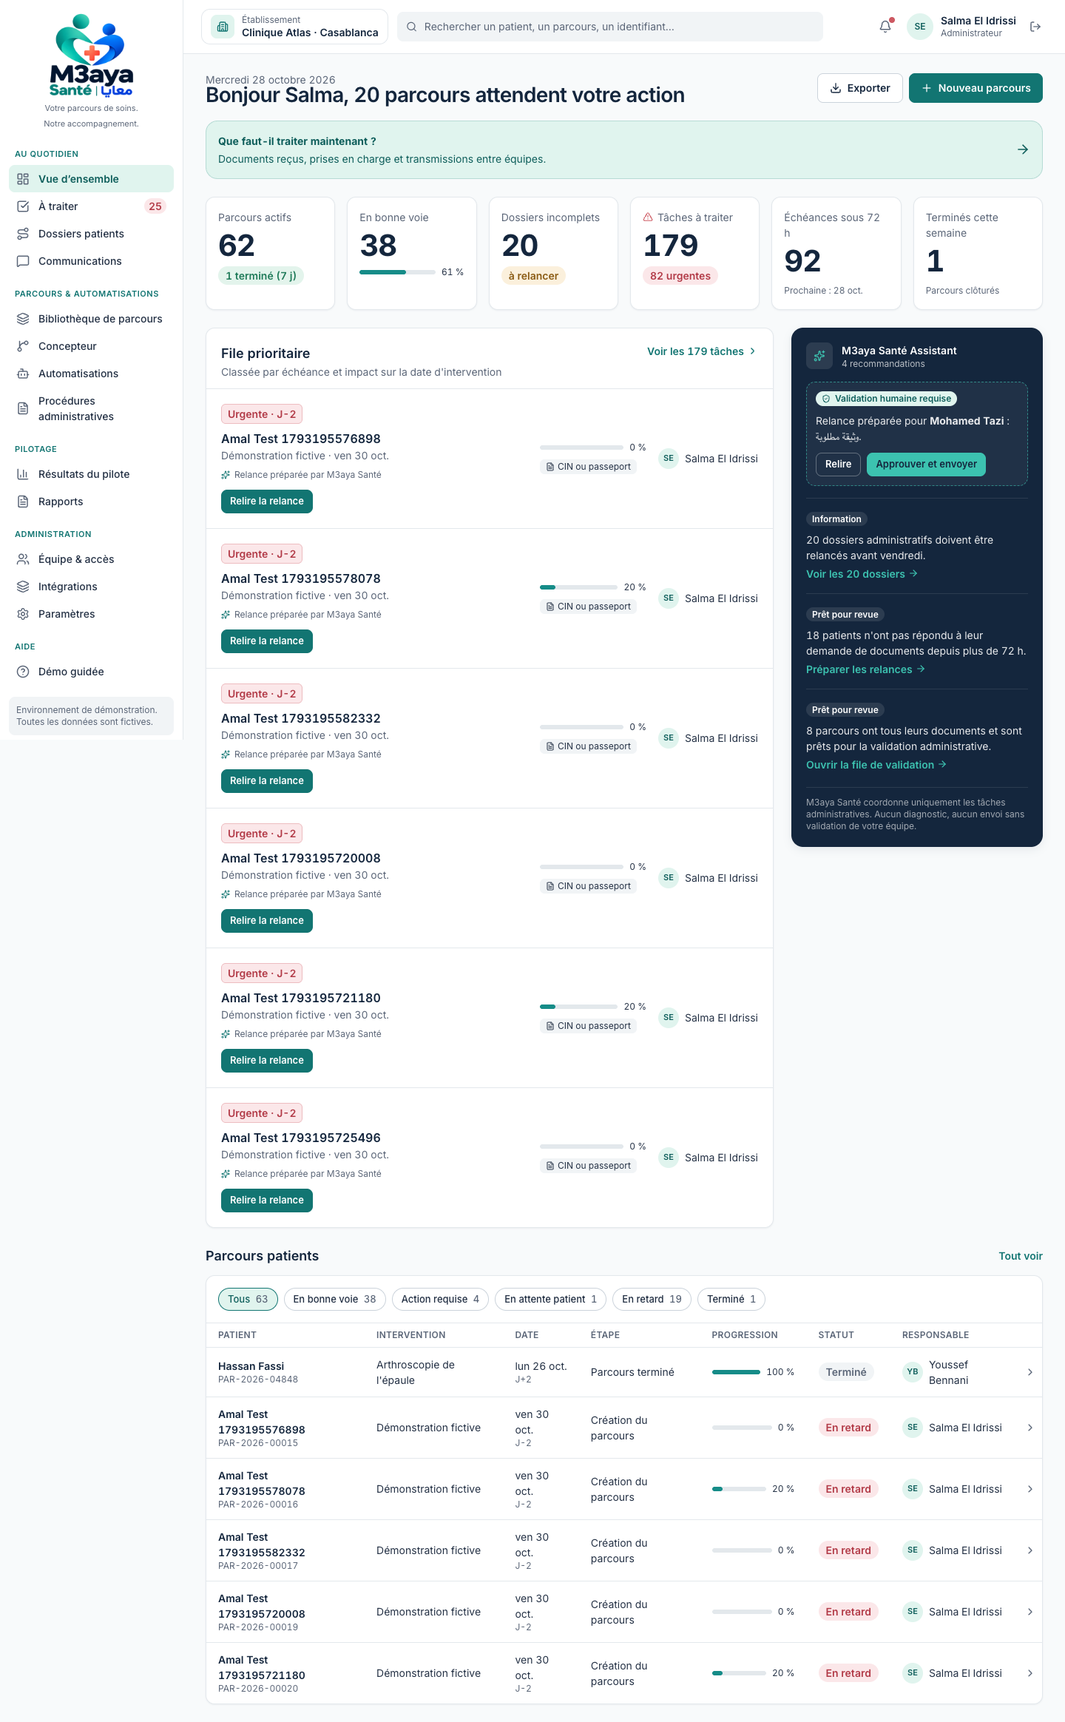
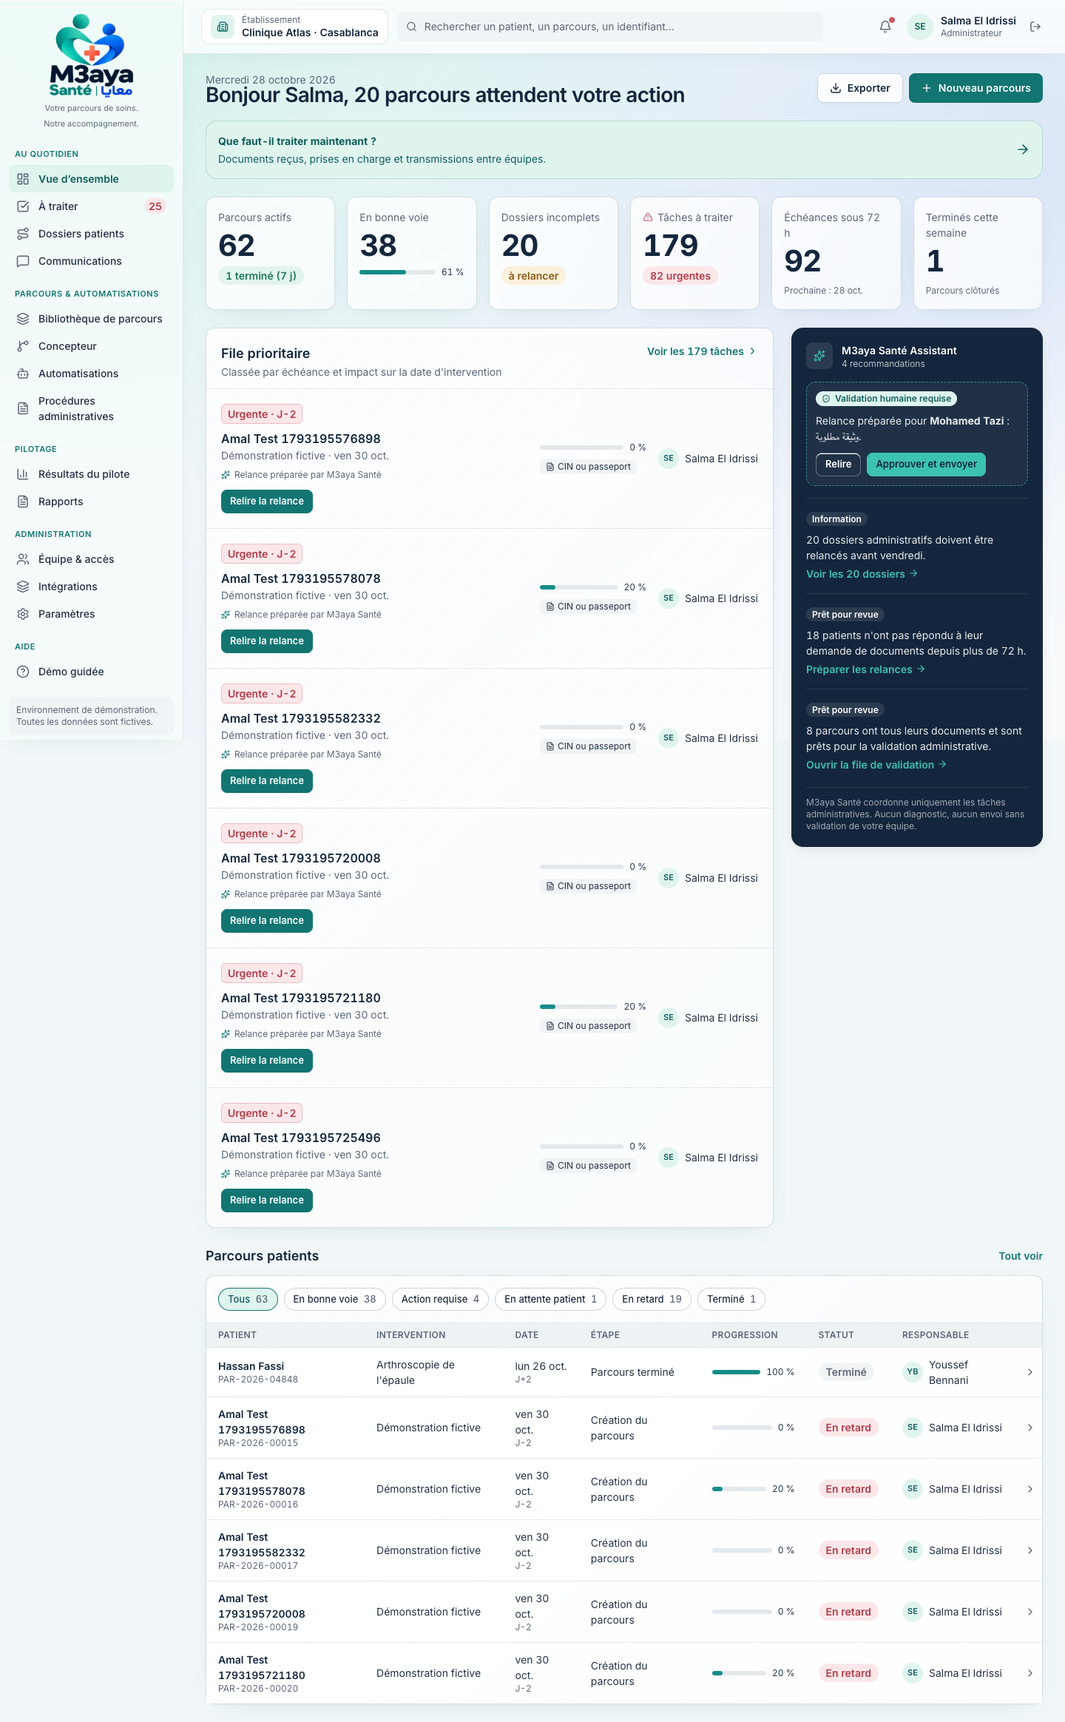
Add accessible frosted glass materials across the workspace and patient portal

Changed region(s): [[0.75, 0.0309, 1.0, 0.1856], [0.1562, 0.0309, 0.5625, 0.1546]]

diff --git a/apps/web/src/pages/Portal.tsx b/apps/web/src/pages/Portal.tsx
@@ -50,7 +50,7 @@ export default function PortalPage() {
   if (!data) return <div className="space-y-3 p-4"><Skeleton className="h-16" /><Skeleton className="h-40" /><Skeleton className="h-64" /></div>;
 
   const header = (
-    <header className="flex items-center gap-3 border-b border-line bg-white px-4 py-3">
+    <header className="flex items-center gap-3 glass-toolbar border-b border-line px-4 py-3">
       <Logo size={32} /><div className="flex-1 leading-tight"><p className="font-semibold text-navy-900">{data.establishment}</p><p className="text-meta text-ink-2">M3aya Santé</p></div>
       <button className="rounded-ctl border border-line-strong px-2.5 py-1 text-sm font-medium" onClick={() => setLang(lang === "fr" ? "ar" : "fr")}>{lang === "fr" ? "العربية" : "Français"}</button>
       <button aria-label={t("logout")} title={t("logout")} onClick={() => logout()}><Avatar name={displayName() || data.first_name} className="h-9 w-9" /></button>
@@ -66,11 +66,11 @@ export default function PortalPage() {
       [t("consent.rights"), t("consent.rights.v", { contact: n.rights_contact || "—" })], [t("consent.cndp"), n.cndp_ref || t("consent.cndp.none")],
     ];
     return (
-      <div className="mx-auto min-h-screen max-w-[430px] bg-page text-patient">{header}
+      <div className="mx-auto min-h-screen max-w-[430px] glass-portal text-patient">{header}
         <main className="space-y-4 px-4 py-5">
           <h1 className="flex items-center gap-2 text-[22px] font-semibold"><ShieldCheck className="text-teal-700" />{t("consent.title")}</h1>
           <p className="text-ink-2">{t("consent.intro")}</p>
-          <dl className="divide-y divide-line rounded-panel border border-line bg-white">
+          <dl className="divide-y divide-line glass-card rounded-panel">
             {rows.map(([k, v]) => <div key={k} className="p-4"><dt className="text-meta font-semibold uppercase tracking-wide text-teal-800">{k}</dt><dd className="mt-1">{v}</dd></div>)}
           </dl>
           <Button size="patient" disabled={consent.isPending} onClick={() => consent.mutate(true)}>{t("consent.accept")}</Button>
@@ -87,7 +87,7 @@ export default function PortalPage() {
 
   const Tasks = () => (
     <section aria-label={t("tasks.title")}><h2 className="mb-2 text-lg font-semibold">{t("tasks.title")}</h2>
-      <ul className="overflow-hidden rounded-panel border border-line bg-white">
+      <ul className="overflow-hidden glass-card rounded-panel">
         {j?.tasks.map((x) => (
           <li key={x.id} className="flex items-center gap-3 border-b border-line p-4 last:border-0">
             <span className={cn("flex h-7 w-7 shrink-0 items-center justify-center rounded-full", x.status === "done" ? "bg-success-bg text-success-text" : "bg-surface-2 text-ink-2")}>{x.status === "done" ? <Check size={15} /> : <ClipboardList size={15} />}</span>
@@ -100,7 +100,7 @@ export default function PortalPage() {
   );
 
   return (
-    <div className="mx-auto flex min-h-screen max-w-[430px] flex-col bg-page">
+    <div className="mx-auto flex min-h-screen max-w-[430px] flex-col glass-portal">
       {header}
       <LiveUpdates />
       {preview&&<DocumentPreview file={preview.file} lang={lang} onCancel={()=>setPreview(null)} onConfirm={file=>{upload.mutate({id:preview.id,file});setPreview(null)}}/>}
@@ -120,9 +120,9 @@ export default function PortalPage() {
               ) : (
                 <Button size="patient" className="mt-4 bg-signal text-navy-900 hover:bg-mint-300" disabled={submit.isPending} onClick={() => submit.mutate(todo.id)}>{t("todo.done")}</Button>)}
             </section>) : (
-            <section className="rounded-panel border border-line bg-white p-5"><p className="font-semibold text-navy-900">{t("alldone.title")}</p><p className="text-ink-2">{t("alldone.text")}</p></section>))}
+            <section className="glass-card rounded-panel p-5"><p className="font-semibold text-navy-900">{t("alldone.title")}</p><p className="text-ink-2">{t("alldone.text")}</p></section>))}
           {(tab === "home" || tab === "journey") && (
-            <section className="rounded-panel border border-line bg-white p-5" aria-label={t("prep.title")}>
+            <section className="glass-card rounded-panel p-5" aria-label={t("prep.title")}>
               <div className="flex items-baseline justify-between"><h2 className="font-semibold text-navy-900">{t("prep.title")}</h2><span className="tabular-nums text-ink-2">{t("prep.steps", { done: j.progress.done, total: j.progress.total })}</span></div>
               <Progress value={j.progress.total ? (100 * j.progress.done) / j.progress.total : 0} className="mt-3 h-2" />
               <p className="mt-3 text-ink-2">{t("prep.surgery", { date: long(j.surgery_date, lang), time: j.admission_time })}</p>
@@ -134,19 +134,19 @@ export default function PortalPage() {
             <section aria-label={t("dates.title")}><h2 className="mb-2 text-lg font-semibold">{t("dates.title")}</h2>
               {[[-1, t("dates.practical")], [0, t("dates.admission", { time: j.admission_time })]].map(([off, text]) => {
                 const d = new Date(j.surgery_date + "T12:00:00"); d.setDate(d.getDate() + (off as number));
-                return (<div key={String(off)} className="mb-2 flex gap-3 rounded-panel border border-line bg-white p-3">
+                return (<div key={String(off)} className="mb-2 flex gap-3 glass-card rounded-panel p-3">
                   <div className="w-12 shrink-0 rounded-ctl bg-mint-100 py-1 text-center text-teal-800"><p className="text-[10px] font-semibold uppercase">{d.toLocaleDateString(locale(lang), { month: "short" })}</p><p className="text-lg font-bold tabular-nums">{d.getDate()}</p></div>
                   <p className="flex-1 self-center">{text as string}</p></div>);
               })}</section>)}
           {tab === "messages" && !delegated && <PatientAssistant arabic={lang === "ar"} />}
           {tab === "messages" && (
             <section aria-label={t("messages.title")}><h2 className="mb-2 text-lg font-semibold">{t("messages.title")}</h2>
-              {j.messages.length === 0 ? <p className="rounded-panel border border-line bg-white p-4 text-ink-2">{t("messages.none")}</p> :
-                j.messages.map((m, i) => <div key={i} className="mb-2 rounded-panel border border-line bg-white p-4"><p className="font-semibold text-navy-900">{m.subject}</p><p className="mt-1 whitespace-pre-wrap">{m.body}</p></div>)}</section>)}
+              {j.messages.length === 0 ? <p className="glass-card rounded-panel p-4 text-ink-2">{t("messages.none")}</p> :
+                j.messages.map((m, i) => <div key={i} className="mb-2 glass-card rounded-panel p-4"><p className="font-semibold text-navy-900">{m.subject}</p><p className="mt-1 whitespace-pre-wrap">{m.body}</p></div>)}</section>)}
           {tab === "rights" && (
             <section aria-label={t("rights.title")} className="space-y-3"><h2 className="text-lg font-semibold">{t("rights.title")}</h2>
               <Button size="patient" variant="secondary" onClick={() => download("/portal/my-data", "mes-donnees.json").catch(fail)}>{t("rights.export")}</Button>
-              <div className="space-y-2 rounded-panel border border-line bg-white p-4">
+              <div className="space-y-2 glass-card rounded-panel p-4">
                 <div className="grid gap-2">{(["rectification", "opposition", "deletion"] as const).map((k) => (
                   <label key={k} className={cn("flex items-center gap-2 rounded-ctl border p-3", kind === k ? "border-teal-700 bg-mint-100" : "border-line-strong")}>
                     <input type="radio" name="kind" checked={kind === k} onChange={() => setKind(k)} />{t(`rights.${k}` as const)}</label>))}</div>
@@ -156,7 +156,7 @@ export default function PortalPage() {
               <p className="text-meta text-ink-2">{data.notice.cndp_ref ? `CNDP : ${data.notice.cndp_ref}` : t("consent.cndp.none")} · {data.notice.rights_contact}</p>
             </section>)}
           {tab === "home" && (
-            <section className="rounded-panel border border-line bg-white p-5"><h2 className="font-semibold text-navy-900">{t("help.title")}</h2>
+            <section className="glass-card rounded-panel p-5"><h2 className="font-semibold text-navy-900">{t("help.title")}</h2>
               <p className="mt-1 text-ink-2">{t("help.hours")}</p>
               <div className="mt-3 grid grid-cols-2 gap-2"><Button variant="secondary" size="sm" disabled={!data.contacts?.phone} onClick={() => { if(data.contacts?.phone)location.href="tel:"+data.contacts.phone; }}><Phone size={14} />{t("help.call")}</Button>
                 <Button variant="secondary" size="sm" onClick={() => {setTab("messages");setTimeout(()=>{const help=document.getElementById("portal-help");help?.setAttribute("open","");help?.scrollIntoView({block:"center"});},0)}}><Mail size={14} />{t("help.write")}</Button></div></section>)}

diff --git a/apps/web/src/index.css b/apps/web/src/index.css
@@ -11,3 +11,88 @@
   [dir="rtl"] body, [dir="rtl"] { font-family: "Noto Sans Arabic Variable", "Inter Variable", system-ui, sans-serif; }
   :focus-visible { outline: none; box-shadow: 0 0 0 2px #fff, 0 0 0 4px #168C88; border-radius: 8px; }
 }
+
+/* M3aya frosted materials: opaque fallbacks work without backdrop-filter. */
+@layer components {
+  .glass-app, .glass-portal {
+    background-color: #f1f7f8;
+    background-image:
+      radial-gradient(ellipse at 8% 0%, rgba(123, 220, 200, .28), transparent 48%),
+      radial-gradient(ellipse at 96% 22%, rgba(130, 172, 236, .20), transparent 46%),
+      linear-gradient(145deg, #f3faf8, #f0f4fa 62%, #f8fafb);
+    background-attachment: fixed;
+  }
+  .glass-card {
+    border: 1px solid rgba(174, 197, 204, .54);
+    background: #fbfdfd;
+    box-shadow: inset 0 1px 0 rgba(255,255,255,.95), 0 8px 28px -16px rgba(28, 67, 89, .22);
+  }
+  .glass-toolbar, .glass-sidebar, .glass-sheet {
+    background: #f9fcfc;
+    border-color: rgba(174, 197, 204, .50);
+    box-shadow: inset 0 1px 0 rgba(255,255,255,.94), 0 8px 28px -20px rgba(28,67,89,.24);
+  }
+  .glass-control {
+    background: rgba(255,255,255,.88);
+    box-shadow: inset 0 1px 0 #fff, 0 2px 5px rgba(28,67,89,.04);
+  }
+  @supports ((backdrop-filter: blur(1px)) or (-webkit-backdrop-filter: blur(1px))) {
+    .glass-card {
+      background: linear-gradient(135deg, rgba(255,255,255,.85), rgba(255,255,255,.66));
+      -webkit-backdrop-filter: blur(14px) saturate(125%);
+      backdrop-filter: blur(14px) saturate(125%);
+    }
+    .glass-sidebar {
+      background: rgba(246,252,251,.82);
+      -webkit-backdrop-filter: blur(24px) saturate(135%);
+      backdrop-filter: blur(24px) saturate(135%);
+    }
+    .glass-toolbar, .glass-sheet {
+      background: rgba(250,253,253,.87);
+      -webkit-backdrop-filter: blur(22px) saturate(135%);
+      backdrop-filter: blur(22px) saturate(135%);
+    }
+  }
+  /* Nested information and table cells keep a stable reading surface. */
+  .glass-card .glass-card, .glass-sheet .glass-card {
+    background: #fbfdfd;
+    -webkit-backdrop-filter: none;
+    backdrop-filter: none;
+    box-shadow: inset 0 1px 0 #fff, 0 2px 8px rgba(28,67,89,.04);
+  }
+  .glass-card thead { background: #edf3f5; }
+  .glass-card tbody { background: rgba(255,255,255,.76); }
+  .glass-card input, .glass-card select, .glass-card textarea { background-color: #fff; }
+}
+
+@media (max-width: 640px) {
+  .glass-app, .glass-portal { background-attachment: scroll; }
+}
+@media (prefers-reduced-transparency: reduce), (prefers-contrast: more) {
+  .glass-card, .glass-toolbar, .glass-sidebar, .glass-sheet, .glass-control {
+    background: #fff !important;
+    -webkit-backdrop-filter: none !important;
+    backdrop-filter: none !important;
+    border-color: #9aabb8;
+    box-shadow: none;
+  }
+  .glass-app, .glass-portal { background: #f5f8fa; }
+}
+@media (forced-colors: active) {
+  .glass-card, .glass-toolbar, .glass-sidebar, .glass-sheet, .glass-control {
+    background: Canvas;
+    color: CanvasText;
+    border: 1px solid CanvasText;
+    -webkit-backdrop-filter: none;
+    backdrop-filter: none;
+    box-shadow: none;
+  }
+}
+@media print {
+  .glass-card, .glass-toolbar, .glass-sidebar, .glass-sheet {
+    background: white !important;
+    -webkit-backdrop-filter: none !important;
+    backdrop-filter: none !important;
+    box-shadow: none !important;
+  }
+}

diff --git a/apps/web/src/components/Simulator.tsx b/apps/web/src/components/Simulator.tsx
@@ -11,7 +11,7 @@ export default function Simulator({steps,onClose}:{steps:Step[];onClose:()=>void
   const run=useMutation({mutationFn:()=>api<Simulation>("/simulator",{method:"POST",body:JSON.stringify({steps,surgery_date:new Date().toISOString().slice(0,10),scenario})}),onSuccess:()=>{setPos(0);setPlaying(true);}});
   useEffect(()=>{if(!playing||!run.data?.events.length)return;const timer=setInterval(()=>setPos(p=>{if(p>=run.data!.events.length-1){setPlaying(false);return p;}return p+1;}),1000);return()=>clearInterval(timer);},[playing,run.data]);
   const events=run.data?.events??[],current=events[pos];
-  return <div className="fixed inset-0 z-50 flex items-center justify-center bg-navy-900/50 p-4" role="dialog" aria-modal="true" aria-label="Simuler le parcours"><div className="max-h-[90vh] w-full max-w-3xl overflow-y-auto rounded-panel bg-white p-6 shadow-modal">
+  return <div className="fixed inset-0 z-50 flex items-center justify-center bg-navy-900/50 p-4" role="dialog" aria-modal="true" aria-label="Simuler le parcours"><div className="max-h-[90vh] w-full max-w-3xl overflow-y-auto glass-sheet rounded-panel p-6">
     <div className="flex items-center justify-between"><h2 className="text-[22px] font-semibold">Le parcours prend vie</h2><button aria-label="Fermer le simulateur" onClick={onClose}><X size={20}/></button></div><p className="mt-1 text-ink-2">Simulation isolée : aucun dossier modifié, aucun message envoyé. Inclut les étapes non enregistrées du concepteur.</p>
     <div className="my-4 flex flex-wrap items-center gap-3"><select aria-label="Scénario" value={scenario} onChange={e=>{setScenario(e.target.value);setPlaying(false);run.reset();}} className="h-10 rounded-ctl border border-line-strong px-3"><option value="missing_document">Pièces manquantes</option><option value="on_time">Tout arrive à temps</option></select><Button disabled={run.isPending} onClick={()=>run.mutate()}><Play size={16}/>Lancer la simulation</Button></div>
     {current&&<><div className="rounded-panel bg-navy-900 p-5 text-white"><Pill tone="mint">J{current.day>=0?"+":""}{current.day}</Pill><h3 className="mt-3 text-xl font-semibold text-white">{current.title}</h3><p className="mt-1 text-white/80">{current.event}</p><p className="mt-2 text-meta text-white/60">{current.date}</p></div>

diff --git a/apps/web/src/App.tsx b/apps/web/src/App.tsx
@@ -153,7 +153,7 @@ function Sidebar({
     },
   ];
   return (
-    <aside className="sticky top-0 hidden h-screen w-[248px] shrink-0 flex-col overflow-y-auto border-r border-line bg-white px-3 py-4 lg:flex">
+    <aside className="glass-sidebar sticky top-0 hidden h-screen w-[248px] shrink-0 flex-col overflow-y-auto border-r border-line px-3 py-4 lg:flex">
       <div className="mb-5 flex flex-col items-center px-2">
         <BrandLogo className="h-auto w-[120px]" />
         <p className="mt-1 text-center text-[11px] text-ink-2">
@@ -219,7 +219,7 @@ function Topbar({
   const nav = useNavigate();
   const [q, setQ] = useState("");
   return (
-    <header className="sticky top-0 z-10 flex flex-wrap items-center gap-3 border-b border-line bg-white/95 px-3 py-3 backdrop-blur sm:px-6">
+    <header className="glass-toolbar sticky top-0 z-10 flex flex-wrap items-center gap-3 border-b border-line px-3 py-3 sm:px-6">
       <div className="flex items-center gap-2.5 rounded-card border border-line bg-white px-3 py-1.5">
         <span className="flex h-8 w-8 items-center justify-center rounded-ctl bg-mint-100 text-teal-700">
           <Building2 size={16} />
@@ -365,7 +365,7 @@ function StaffApp() {
   const home =
     !isAdmin && r.includes("coordinator") ? "/operations" : "/vue-ensemble";
   return (
-    <div className="flex min-h-screen">
+    <div className="glass-app flex min-h-screen">
       <Sidebar
         canDesign={canDesign}
         isAdmin={isAdmin}
@@ -380,7 +380,7 @@ function StaffApp() {
           multiSite={multiSite}
         />
         <nav
-          className="flex items-center justify-around border-b border-line bg-white p-2 lg:hidden"
+          className="glass-toolbar flex items-center justify-around border-b border-line p-2 lg:hidden"
           aria-label="Navigation équipe mobile"
         >
           {[
@@ -410,7 +410,7 @@ function StaffApp() {
           <nav
             id="mobile-more"
             aria-label="Autres rubriques"
-            className="grid gap-1 border-b border-line bg-white p-4 lg:hidden"
+            className="glass-sheet grid gap-1 border-b border-line p-4 lg:hidden"
             onClick={() => setMore(false)}
           >
             {[

diff --git a/apps/web/src/components/ui.tsx b/apps/web/src/components/ui.tsx
@@ -9,7 +9,7 @@ const button = cva(
     variants: {
       variant: {
         primary: "bg-teal-700 text-white hover:bg-teal-800",
-        secondary: "border border-line-strong bg-white text-navy-900 hover:bg-surface-2",
+        secondary: "glass-control border border-line-strong text-navy-900 hover:bg-surface-2",
         ghost: "text-teal-700 hover:bg-mint-100",
         danger: "border border-critical/40 bg-white text-critical-text hover:bg-critical-bg",
       },
@@ -26,7 +26,7 @@ Button.displayName = "Button";
 
 /* ---- Cartes ---- */
 export const Card = ({ className, ...p }: React.HTMLAttributes<HTMLDivElement>) => (
-  <div className={cn("rounded-card border border-line bg-white shadow-card", className)} {...p} />
+  <div className={cn("glass-card rounded-card", className)} {...p} />
 );
 
 /* ---- Statuts : pastilles (planche §06) ---- */
@@ -103,7 +103,7 @@ export function Confirm({ open, title, children, confirmLabel, onConfirm, onCanc
   if (!open) return null;
   return (
     <div className="fixed inset-0 z-50 flex items-center justify-center bg-navy-900/40 p-4" role="dialog" aria-modal="true" aria-label={title}>
-      <div className="w-full max-w-md rounded-panel bg-white p-6 shadow-modal">
+      <div className="glass-sheet w-full max-w-md rounded-panel p-6">
         <h2 className="text-lg font-semibold">{title}</h2>
         <div className="mt-2 text-ink-2">{children}</div>
         <div className="mt-5 flex justify-end gap-2">

diff --git a/apps/web/src/components/NewJourney.tsx b/apps/web/src/components/NewJourney.tsx
@@ -56,7 +56,7 @@ export default function NewJourney({ onClose, initialTemplateId }: { onClose: ()
 
   return (
     <div className="fixed inset-0 z-50 flex items-center justify-center bg-navy-900/40 p-4" role="dialog" aria-modal="true" aria-label="Nouveau parcours">
-      <div className="max-h-[92vh] w-full max-w-2xl overflow-y-auto rounded-panel bg-white p-6 shadow-modal">
+      <div className="max-h-[92vh] w-full max-w-2xl overflow-y-auto glass-sheet rounded-panel p-6">
         <div className="flex items-start justify-between"><h2 className="text-lg font-semibold">Nouveau parcours</h2><button aria-label="Fermer" onClick={()=>close()} className="text-ink-2">✕</button></div>
         <div className="mt-3 flex gap-2" role="tablist">
           {([["manual", "Saisie manuelle"], ["csv", "Import CSV"]] as const).map(([k, l]) => (

diff --git a/apps/web/src/pages/Operations.tsx b/apps/web/src/pages/Operations.tsx
@@ -1114,7 +1114,7 @@ export default function Operations({ mode }: { mode?: string }) {
           aria-modal="true"
           aria-label="Dossier administratif"
         >
-          <div className="h-full w-full max-w-3xl overflow-y-auto bg-page p-5 shadow-modal">
+          <div className="glass-sheet h-full w-full max-w-3xl overflow-y-auto p-5">
             <div className="mb-4 flex items-center justify-between">
               <h2 className="text-xl font-semibold">
                 {d?.reference ?? "Chargement…"} · dossier administratif

diff --git a/apps/web/src/components/DocumentPreview.tsx b/apps/web/src/components/DocumentPreview.tsx
@@ -31,7 +31,7 @@ export default function DocumentPreview({
         e.preventDefault();
         onCancel();
       }}
-      className="fixed inset-0 m-auto max-h-[90dvh] w-[calc(100%-32px)] max-w-md overflow-auto rounded-panel bg-white p-5 backdrop:bg-navy-900/50"
+      className="fixed inset-0 m-auto max-h-[90dvh] w-[calc(100%-32px)] max-w-md overflow-auto glass-sheet rounded-panel p-5 backdrop:bg-navy-900/50"
       dir={ar ? "rtl" : "ltr"}
     >
       <h2 className="text-xl font-semibold">

diff --git a/apps/web/src/pages/JourneyDetail.tsx b/apps/web/src/pages/JourneyDetail.tsx
@@ -536,7 +536,7 @@ export default function JourneyDetailPage() {
           aria-modal="true"
           aria-label="Lien patient"
         >
-          <div className="w-full max-w-lg rounded-panel bg-white p-6 shadow-modal">
+          <div className="w-full max-w-lg glass-sheet rounded-panel p-6">
             <h2 className="text-lg font-semibold">Lien patient</h2>
             <p className="mt-2 text-ink-2">
               {invite.status === "sent"

diff --git a/README.md b/README.md
@@ -88,6 +88,12 @@ npx vercel deploy --prebuilt --prod
 
 The packager reads the backend destination from `apps/web/vercel.json` and copies only the generated public `dist` files into ignored `.vercel/output`. It never reads provider keys or patient records. After publication, verify `/`, `/app`, `/operations`, a static asset and an authenticated API call; a deployment marked Ready alone is not sufficient validation.
 
+## Frosted interface materials
+
+The staff workspace and patient portal use a restrained glassmorphism treatment: a static mint/blue backdrop, translucent cards and navigation, fine highlight borders and soft depth. Dialogs and administrative side panels use a denser material; nested cards, data tables and form fields retain stable reading surfaces. Status colors remain unchanged.
+
+Materials are shared in `apps/web/src/index.css` (`glass-card`, `glass-toolbar`, `glass-sidebar`, `glass-sheet`, `glass-control`). Browsers without backdrop-filter receive opaque fallbacks. Reduced-transparency and increased-contrast preferences remove the effect, Windows forced colors are respected, and print styles remove blur and shadows. No animation or new UI dependency is introduced.
+
 ## Navigation designed around clinic work
 
 The staff menu now separates everyday work, pathway configuration, pilot measurement and administration. Existing bookmarks remain usable.
